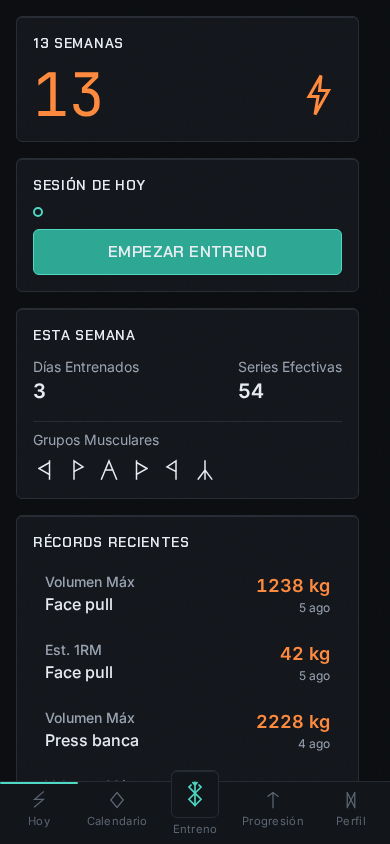
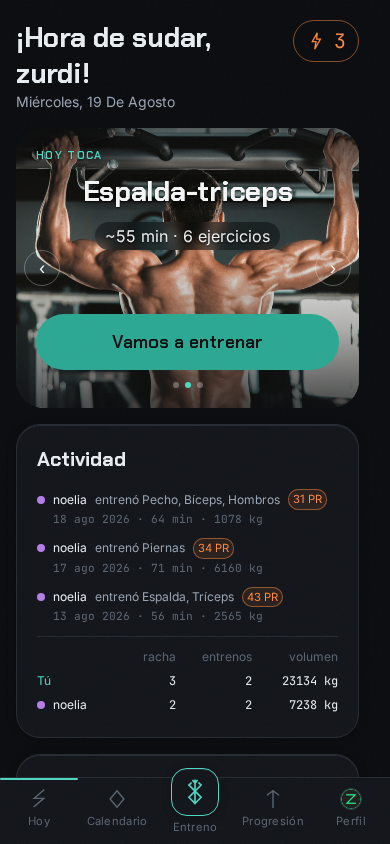
docs: screenshots del README regenerados — solo móvil, con datos reales
La galería pasa a 6 capturas móviles (390x844) tomadas contra la instancia
con el backup de prod restaurado (fotos y datos reales): Hoy con hero y
feed social, pre-inicio, player en vivo, calendario con heatmap, totales y
la vista detalle por ejercicio nueva de v0.24.0. Las capturas desktop
desaparecen — la versión móvil es la que de verdad cuenta.

Claude-Session: https://claude.ai/code/session_01HkD1mXnsiQdj6TT1qY1v7x

diff --git a/README.md b/README.md
@@ -16,22 +16,16 @@
 
 ## Screenshots
 
-<p align="center">
-  <img src="docs/screenshots/desktop-today.png" width="100%" alt="Today view: weekly summary, today's session and recent PRs">
-</p>
-
 <table>
   <tr>
-    <td><img src="docs/screenshots/desktop-calendar.png" width="100%" alt="Calendar view with scheduled sessions, rune-tagged training days and the yearly activity heatmap"></td>
-    <td><img src="docs/screenshots/desktop-workout.png" width="100%" alt="Live workout logging with compact exercise cards, muscle tags and set entry"></td>
-    <td><img src="docs/screenshots/desktop-progress.png" width="100%" alt="Progress view's lifetime stats tab: workouts, hours, volume, PR count and longest streak"></td>
+    <td><img src="docs/screenshots/mobile-today.png" width="240" alt="Today view: routine hero, social activity feed and weekly streak"></td>
+    <td><img src="docs/screenshots/mobile-prestart.png" width="240" alt="Pre-workout view: routine hero with its blocks and exercise photos"></td>
+    <td><img src="docs/screenshots/mobile-workout.png" width="240" alt="Live workout player: block stepper, exercise photo and one-tap set logging"></td>
   </tr>
-</table>
-
-<table>
   <tr>
-    <td><img src="docs/screenshots/mobile-today.png" width="240" alt="Today view on mobile"></td>
-    <td><img src="docs/screenshots/mobile-workout.png" width="240" alt="Live workout logging on mobile"></td>
+    <td><img src="docs/screenshots/mobile-calendar.png" width="240" alt="Calendar with rune-tagged training days, shared-user dots and the yearly heatmap"></td>
+    <td><img src="docs/screenshots/mobile-progress.png" width="240" alt="Lifetime stats: workouts, hours, volume, PR count and longest streak"></td>
+    <td><img src="docs/screenshots/mobile-exercise.png" width="240" alt="Exercise detail: photo, records, trend chart with time ranges and full session history"></td>
   </tr>
 </table>
 
